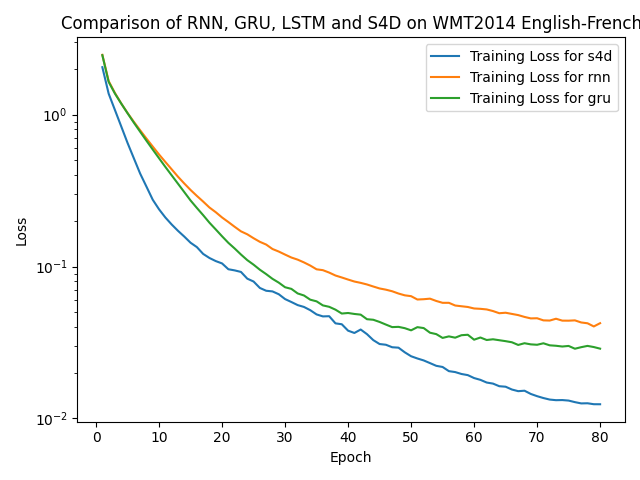
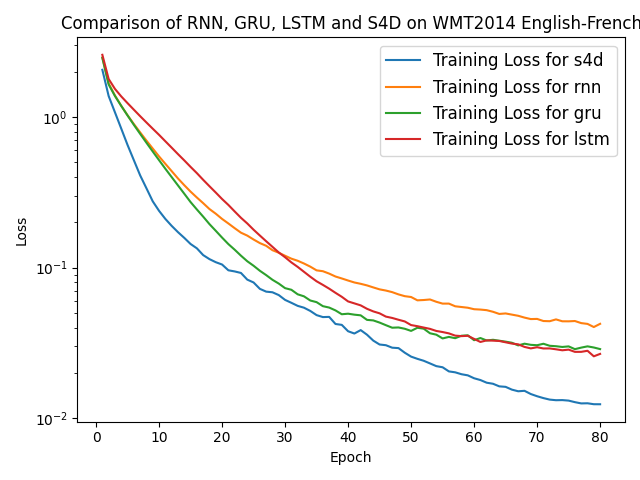
update figures and notebooks

diff --git a/README.md b/README.md
@@ -1,2 +1,3 @@
-The example is adapted from [state-spaces/s4](https://github.com/state-spaces/s4/blob/main/example.py). 
+The s4d.py is adapted from [state-spaces/s4](https://github.com/state-spaces/s4/blob/main/example.py). 
 
+The translation example is adapted [pytorch tutorial](https://pytorch.org/tutorials/intermediate/seq2seq_translation_tutorial.html). 
